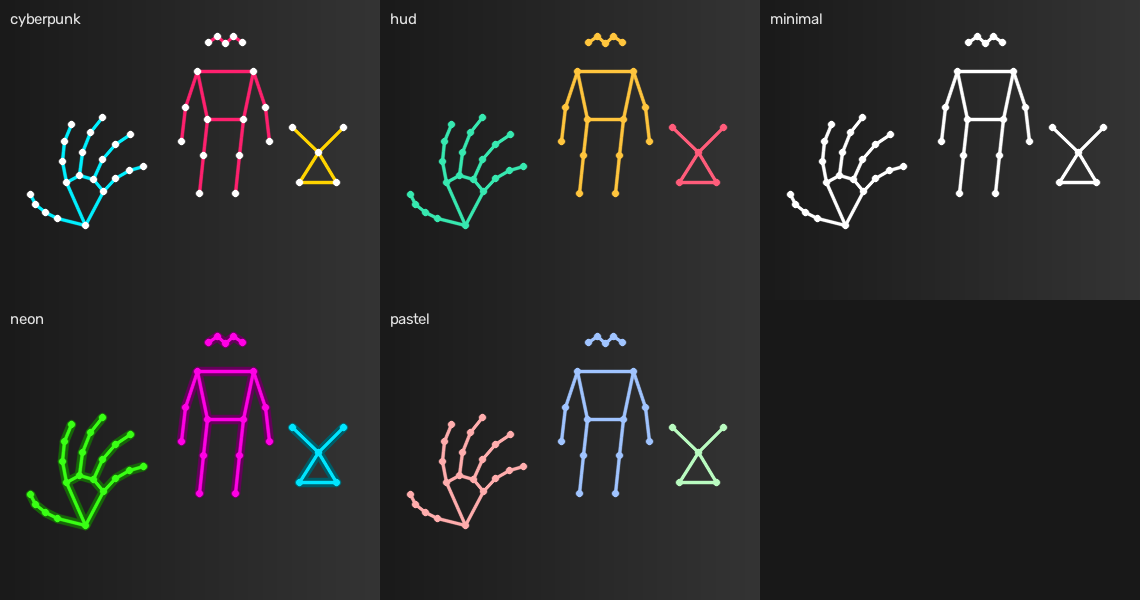
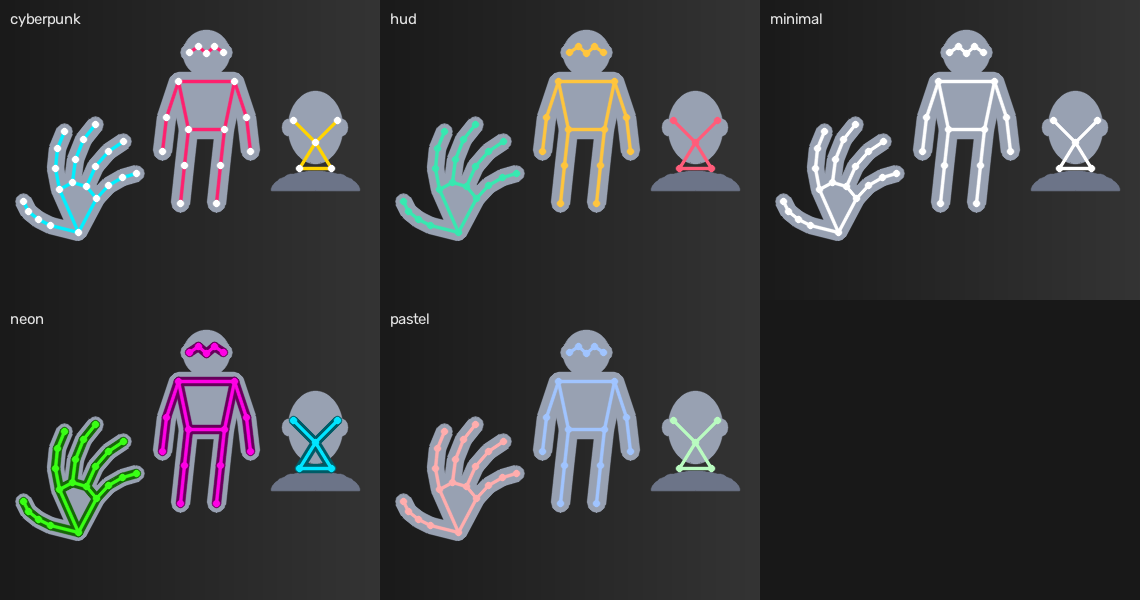
İskelet önizlemesine silüet ekle
Kutu kipinde çizim bir figürün üstünde duruyor; iskelet kipinde çizgiler
boşluktaydı ve özellikle yüz, beş noktadan ibaret bir işarete benziyordu.

Silüetler kutulardaki figürlerle aynı gri tonda ve iskeletin altında çiziliyor:
çizimin kendisi -- playground'un asıl gösterdiği şey -- hiç değişmiyor, yalnızca
oturacağı bir gövde kazanıyor. El ve poz için kütle iskeletin kendi
geometrisinden türetiliyor, yani animasyonu bedavaya takip ediyor; yüz için baş
göz aralığından ölçeklenip göz çizgisinin açısına yatırılıyor.

Aynısı belgelerdeki iskelet görseline de uygulandı.

diff --git a/docs/index.html b/docs/index.html
@@ -1655,6 +1655,83 @@ function facePoints(cx, cy, time, scale) {
   ]);
 }
 
+// Kutu kipinde çizim bir figürün üstünde duruyor; iskelet kipinde çizgiler
+// boşlukta kalıyordu ve özellikle yüz beş noktadan ibaret bir işarete
+// benziyordu. Silüetler kutulardaki figürlerle aynı gri tonda, iskeletin
+// altında: çizimin kendisi hiç değişmiyor, yalnızca oturacağı bir gövde
+// kazanıyor.
+function subjectPath(points, edges, weight) {
+  ctx.save();
+  ctx.strokeStyle = FIGURE;
+  ctx.fillStyle = FIGURE;
+  ctx.lineCap = "round";
+  ctx.lineJoin = "round";
+  ctx.lineWidth = weight;
+  ctx.beginPath();
+  for (const [from, to] of edges) {
+    ctx.moveTo(points[from][0], points[from][1]);
+    ctx.lineTo(points[to][0], points[to][1]);
+  }
+  ctx.stroke();
+  return () => ctx.restore();
+}
+
+function drawHandSubject(points, scale) {
+  const done = subjectPath(points, HAND_EDGES, 21 * scale);
+  // Avuç: bilek ve parmak diplerinden geçen dolgu, tek tek kemiklerden
+  // oluşmayan bir kütle veriyor.
+  const palm = [0, 5, 9, 13, 17].map((index) => points[index]);
+  ctx.beginPath();
+  ctx.moveTo(palm[0][0], palm[0][1]);
+  for (const [x, y] of palm.slice(1)) ctx.lineTo(x, y);
+  ctx.closePath();
+  ctx.fill();
+  done();
+}
+
+function drawPoseSubject(points, scale) {
+  const done = subjectPath(points, POSE_EDGES, 21 * scale);
+  const shoulders = Math.hypot(points[5][0] - points[6][0], points[5][1] - points[6][1]);
+  ctx.beginPath();
+  ctx.arc(points[0][0], points[0][1], Math.max(shoulders * 0.42, 4), 0, Math.PI * 2);
+  ctx.fill();
+  // Gövde: omuzlardan kalçalara dolu bir dörtgen.
+  ctx.beginPath();
+  for (const index of [5, 6, 12, 11]) ctx.lineTo(points[index][0], points[index][1]);
+  ctx.closePath();
+  ctx.fill();
+  done();
+}
+
+function drawFaceSubject(points) {
+  // Baş, göz aralığından ölçeklenip göz çizgisinin açısına göre yatırılıyor:
+  // noktalar animasyon boyunca başın üstünde kalıyor.
+  const [leftEye, rightEye, nose] = points;
+  const span = Math.hypot(rightEye[0] - leftEye[0], rightEye[1] - leftEye[1]);
+  const angle = Math.atan2(rightEye[1] - leftEye[1], rightEye[0] - leftEye[0]);
+  const cx = (leftEye[0] + rightEye[0] + nose[0]) / 3;
+  const cy = (leftEye[1] + rightEye[1] + nose[1]) / 3;
+
+  ctx.save();
+  ctx.fillStyle = FIGURE;
+  ctx.translate(cx, cy);
+  ctx.rotate(angle);
+  for (const side of [-1, 1]) {          // kulaklar
+    ctx.beginPath();
+    ctx.ellipse(side * span * 0.62, 0, span * 0.13, span * 0.2, 0, 0, Math.PI * 2);
+    ctx.fill();
+  }
+  ctx.beginPath();
+  ctx.ellipse(0, 0, span * 0.62, span * 0.82, 0, 0, Math.PI * 2);
+  ctx.fill();
+  // Omuz ucu: baş havada durmuyor.
+  ctx.fillStyle = FIGURE_DARK;
+  ctx.beginPath();
+  ctx.ellipse(0, span * 1.45, span * 1.0, span * 0.45, 0, Math.PI, 0);
+  ctx.fill();
+  ctx.restore();
+}
+
 function drawSkeletons(width, height) {
   drawBackdrop(width, height);
 
@@ -1673,11 +1750,15 @@ function drawSkeletons(width, height) {
       colour: state.palette[1 % state.palette.length],
     },
     {
-      points: facePoints(width * 0.86, height * 0.46, time, scale * 170),
+      points: facePoints(width * 0.85, height * 0.5, time, scale * 125),
       edges: FACE_EDGES,
       colour: state.palette[2 % state.palette.length],
     },
   ];
+
+  drawHandSubject(skeletons[0].points, scale);
+  drawPoseSubject(skeletons[1].points, scale);
+  drawFaceSubject(skeletons[2].points);
 
   for (const { points, edges, colour } of skeletons) {
     if (state.glow) {

diff --git a/tools/make_style_sheet.py b/tools/make_style_sheet.py
@@ -3,7 +3,7 @@ README ve belgelerdeki görselleri üretir:
 
 * `docs/box-styles.png` — aynı tespit, bütün çerçeve biçimleri yan yana.
 * `docs/theme-<ad>.png` — her tema, kendi çerçeve biçimiyle, tam kare.
-* `docs/skeletons.png` — el ve poz iskeleti, her temada.
+* `docs/skeletons.png` — el, poz ve yüz iskeleti, her temada.
 * `docs/motion.png` — nabız halkasının evreleri ve takip izi.
 
 Çalıştırmak için:  python tools/make_style_sheet.py
@@ -138,15 +138,67 @@ def face_points(cx: float, cy: float, scale: float) -> np.ndarray:
     return np.array([[cx + dx * scale, cy + dy * scale] for dx, dy in layout])
 
 
+#: Sahnedeki figürlerin grisi; playground'daki FIGURE ile aynı ton.
+FIGURE = (178, 161, 152)
+FIGURE_DARK = (136, 116, 108)
+
+
+def draw_subject(frame: np.ndarray, points: np.ndarray, edges, weight: int) -> None:
+    """İskeletin altına aynı geometriden kalın bir kütle çizer."""
+    for first, second in edges:
+        cv2.line(
+            frame, tuple(points[first].astype(int)), tuple(points[second].astype(int)),
+            FIGURE, weight, cv2.LINE_AA,
+        )
+
+
+def fill_polygon(frame: np.ndarray, points: np.ndarray, indices) -> None:
+    cv2.fillPoly(frame, [points[list(indices)].astype(np.int32)], FIGURE, cv2.LINE_AA)
+
+
+def draw_face_subject(frame: np.ndarray, points: np.ndarray) -> None:
+    """Baş ve omuz: beş nokta tek başına yüz olduğunu anlatmıyor."""
+    left, right, nose = points[0], points[1], points[2]
+    span = float(np.hypot(*(right - left)))
+    angle = float(np.degrees(np.arctan2(right[1] - left[1], right[0] - left[0])))
+    center = tuple(np.mean([left, right, nose], axis=0).astype(int))
+
+    along = np.array([np.cos(np.radians(angle)), np.sin(np.radians(angle))])
+    down = np.array([-along[1], along[0]])
+    # Omuz başın altına iniyor: merkeze çizilirse başın arkasında kalıp görünmüyor.
+    shoulder = tuple((np.array(center) + down * span * 1.45).astype(int))
+    cv2.ellipse(frame, shoulder, (int(span * 1.0), int(span * 0.45)),
+                angle, 180, 360, FIGURE_DARK, -1, cv2.LINE_AA)
+    for side in (-1, 1):
+        offset = along * side * span * 0.62
+        cv2.ellipse(frame, tuple((np.array(center) + offset).astype(int)),
+                    (int(span * 0.13), int(span * 0.2)), angle, 0, 360, FIGURE, -1, cv2.LINE_AA)
+    cv2.ellipse(frame, center, (int(span * 0.62), int(span * 0.82)),
+                angle, 0, 360, FIGURE, -1, cv2.LINE_AA)
+
+
 def skeleton_cell(theme_name: str) -> np.ndarray:
     width, height = 380, 300
     column = np.linspace(26, 52, width, dtype=np.uint8)
     frame = np.repeat(column[None, :, None], height, axis=0).repeat(3, axis=2).copy()
 
     theme = get_theme(theme_name)
-    theme.annotate_keypoints(frame, KeyPoints(xy=hand_points(85, 225)), HAND_21)
-    theme.annotate_keypoints(frame, KeyPoints(xy=pose_points(225, 195), class_id=[1]), POSE_17)
-    theme.annotate_keypoints(frame, KeyPoints(xy=face_points(318, 150, 115), class_id=[2]), FACE_5)
+    hand = hand_points(78, 232)
+    pose = pose_points(206, 205)
+    face = face_points(315, 140, 100)
+
+    # Siluetler önce: çizim bir gövdenin üstünde dursun, boşlukta kalmasın.
+    draw_subject(frame, hand, HAND_21, 15)
+    fill_polygon(frame, hand, (0, 5, 9, 13, 17))
+    draw_subject(frame, pose, POSE_17, 17)
+    fill_polygon(frame, pose, (5, 6, 12, 11))
+    cv2.circle(frame, tuple(pose[0].astype(int)),
+               int(np.hypot(*(pose[5] - pose[6])) * 0.42), FIGURE, -1, cv2.LINE_AA)
+    draw_face_subject(frame, face)
+
+    theme.annotate_keypoints(frame, KeyPoints(xy=hand[None, ...]), HAND_21)
+    theme.annotate_keypoints(frame, KeyPoints(xy=pose[None, ...], class_id=[1]), POSE_17)
+    theme.annotate_keypoints(frame, KeyPoints(xy=face[None, ...], class_id=[2]), FACE_5)
     cv2.putText(
         frame, theme_name, (10, 24), cv2.FONT_HERSHEY_SIMPLEX, 0.5,
         (230, 230, 230), 1, cv2.LINE_AA,

diff --git a/CHANGELOG.md b/CHANGELOG.md
@@ -18,6 +18,11 @@ Sürümleme [Semantic Versioning](https://semver.org/lang/tr/) izler.
   çekilmiyor, yüzü ortadan bölüyor.
 - Playground'un iskelet önizlemesine yüz eklendi; belgelerdeki iskelet görseli de
   üç topolojiyi gösteriyor.
+- İskelet önizlemesindeki çizimlerin altına silüet kondu. Kutu kipinde çizim bir
+  figürün üstünde duruyordu, iskelet kipinde çizgiler boşluktaydı ve özellikle
+  yüz beş noktadan ibaret bir işarete benziyordu. Silüetler kutulardaki
+  figürlerle aynı gri tonda ve iskeletin altında: çizimin kendisi değişmiyor,
+  yalnızca oturacağı bir gövde kazanıyor.
 
 ### Değişti
 - İskelet listesine bağlı iki test artık listeyi sabit saymıyor; yeni bir
